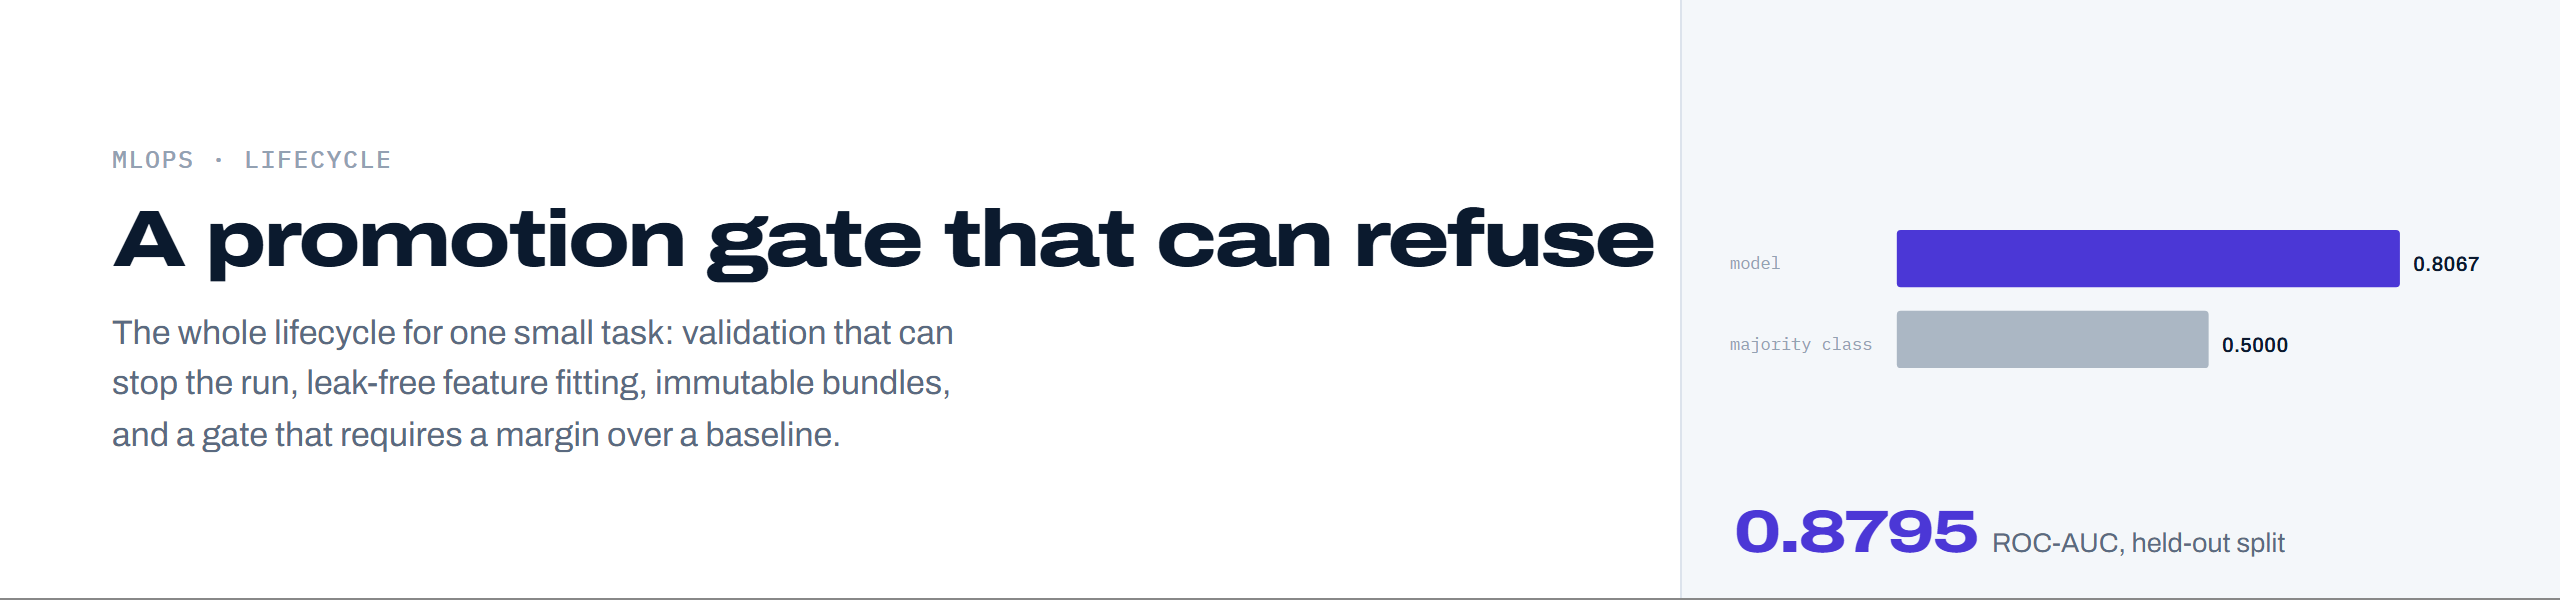
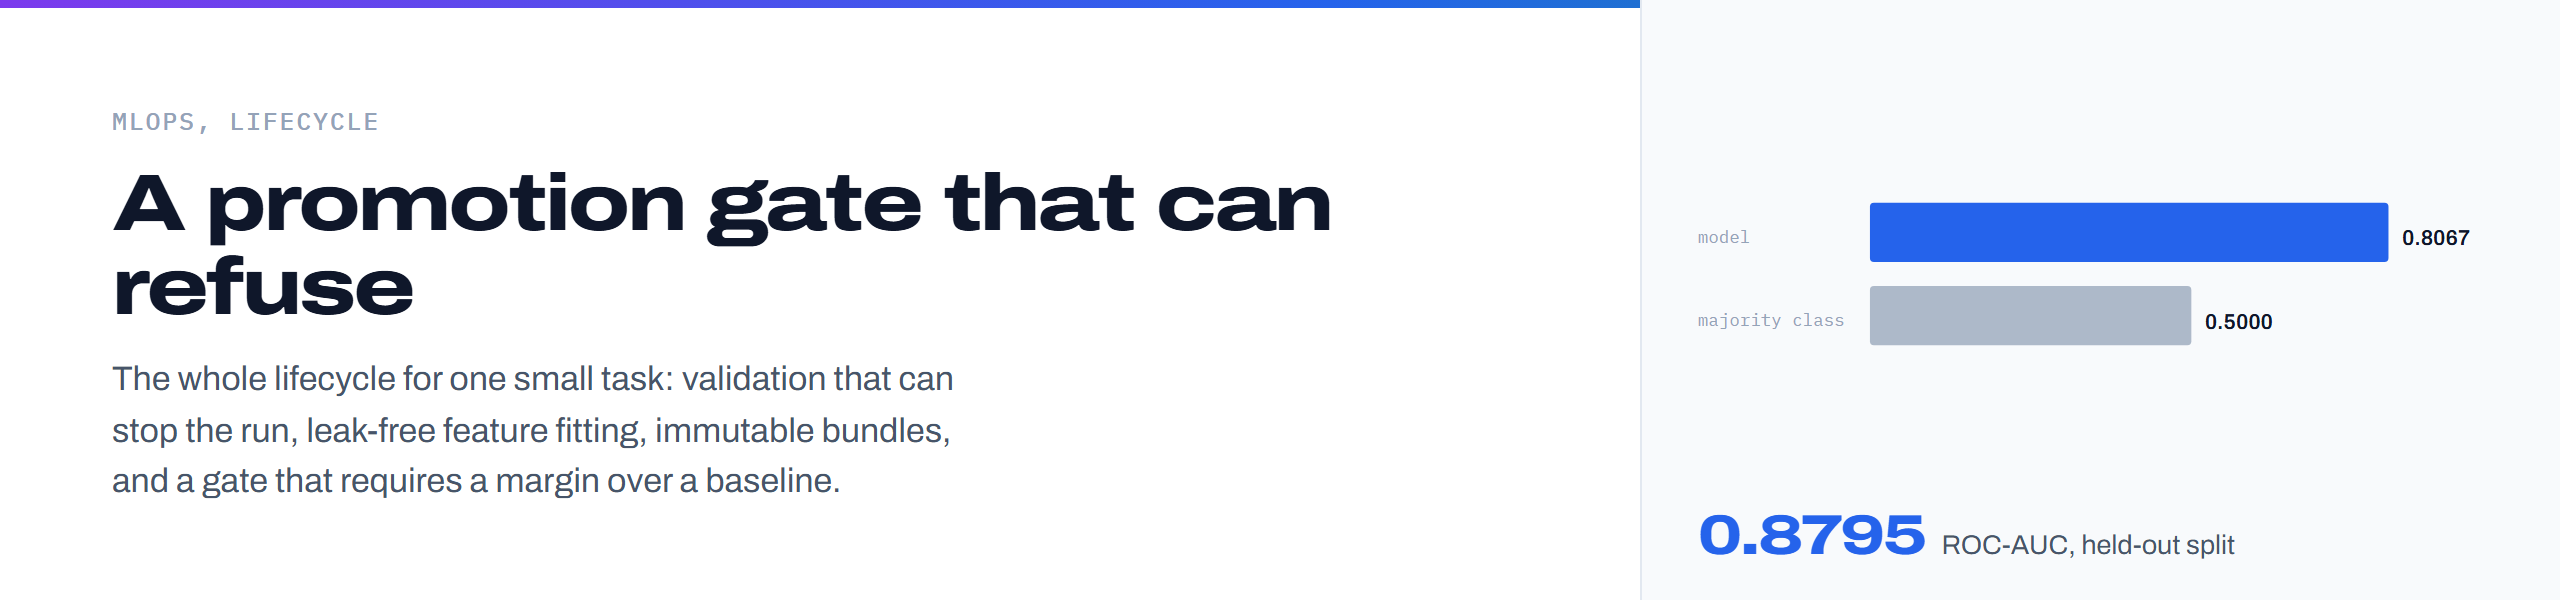
Replace machine-written punctuation and re-render the header image
Em dashes, the plus-minus sign and a middle dot go, for the words or the plain
characters that mean the same thing. The rule is the one the CV, the GitHub
profile and the website are all held to, enforced by check_characters.py, so
the four surfaces cannot drift apart.

The author line is "GitHub and LinkedIn" rather than the two separated by a
middle dot. The automated pass had turned that dot into a bare asterisk,
because it sat at the end of a line and the rule that rewrites a separator
looks for a space on both sides. A trailing asterisk either renders as itself
or opens an emphasis span across the line break; neither is what the line
means, and the character checker could not catch it because an asterisk is not
a banned character. The rule is fixed at source as well.

The header image is re-rendered in the muted palette the profile moved to.
No claim, number or result changed.

diff --git a/README.md b/README.md
@@ -48,11 +48,11 @@ Reference run, UCI Sentiment Labelled Sentences, 3,000 rows split 1,800 / 600 / 
 | Majority-class baseline | 0.5000 | **0.5000** |
 | Margin over baseline | 0.3117 | **0.3067** |
 
-Cross-validated weighted F1 on the training split: 0.7915 ± 0.0132.
+Cross-validated weighted F1 on the training split: 0.7915 plus or minus 0.0132.
 
 That is an ordinary result for TF-IDF plus logistic regression on short sentences:
 well above the 0.5 baseline, nowhere near a fine-tuned transformer. The test split
-is 600 rows, so the confidence interval on accuracy is roughly ±3 points, and a
+is 600 rows, so the confidence interval on accuracy is roughly plus or minus 3 points, and a
 one-point difference between models on this split is noise. The three places the
 metric was measured agree to within 0.020, and the test result sits inside the
 cross-validation spread.
@@ -227,7 +227,7 @@ extractor, which is a different project.
 
 - A reference implementation, not a deployed product. No production traffic has ever
   hit it.
-- 600 test rows, so the confidence interval on accuracy is roughly ±3 points. A
+- 600 test rows, so the confidence interval on accuracy is roughly plus or minus 3 points. A
   one-point difference between models on this split is noise.
 - `docs/figures/02_evaluation_curves.png` is drawn from a six-row fixture and its
   subtitle claims the 600-row held-out split. It needs regenerating from a real run.
@@ -271,5 +271,5 @@ which requires attribution:
 
 ## Author
 
-**Mohd Zamin Quadri**, [GitHub](https://github.com/mzquadri) ·
+**Mohd Zamin Quadri**, [GitHub](https://github.com/mzquadri) and
 [LinkedIn](https://www.linkedin.com/in/mohdzaminquadri/)
